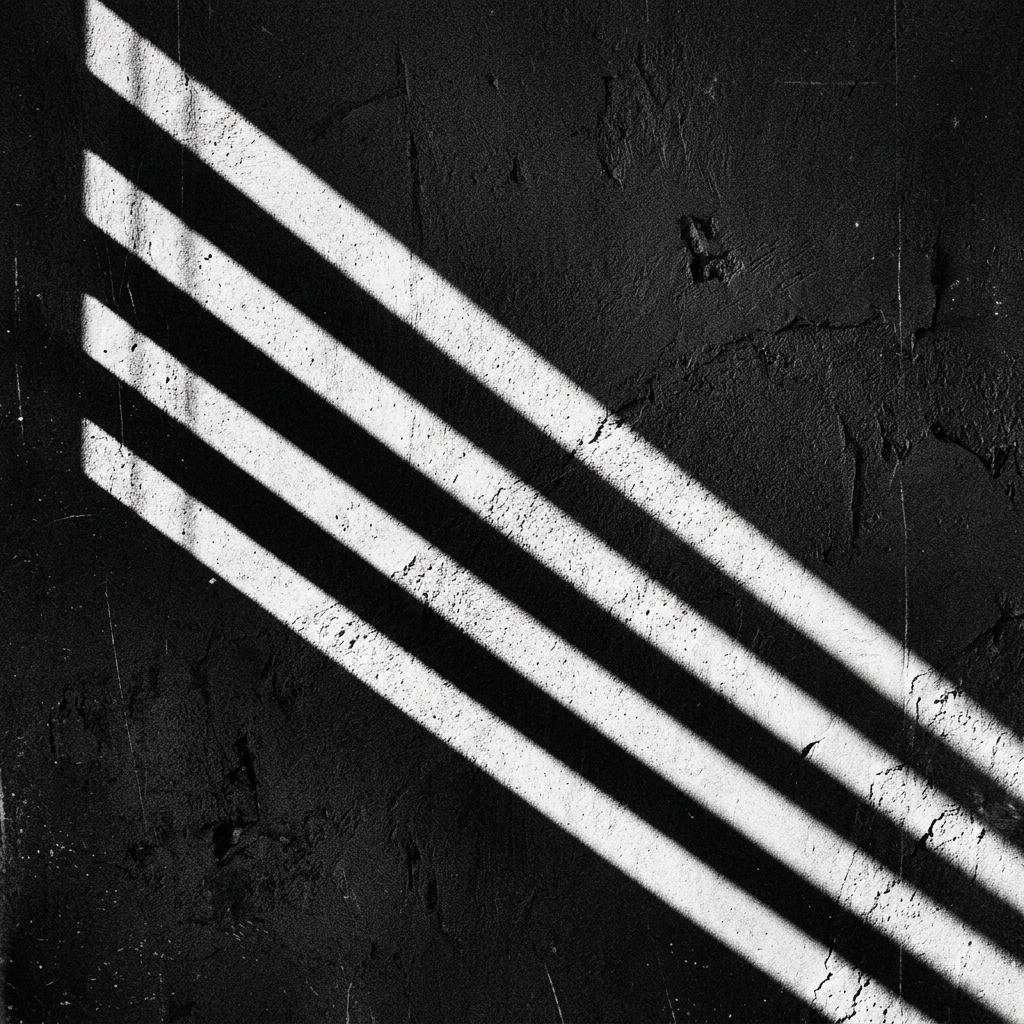
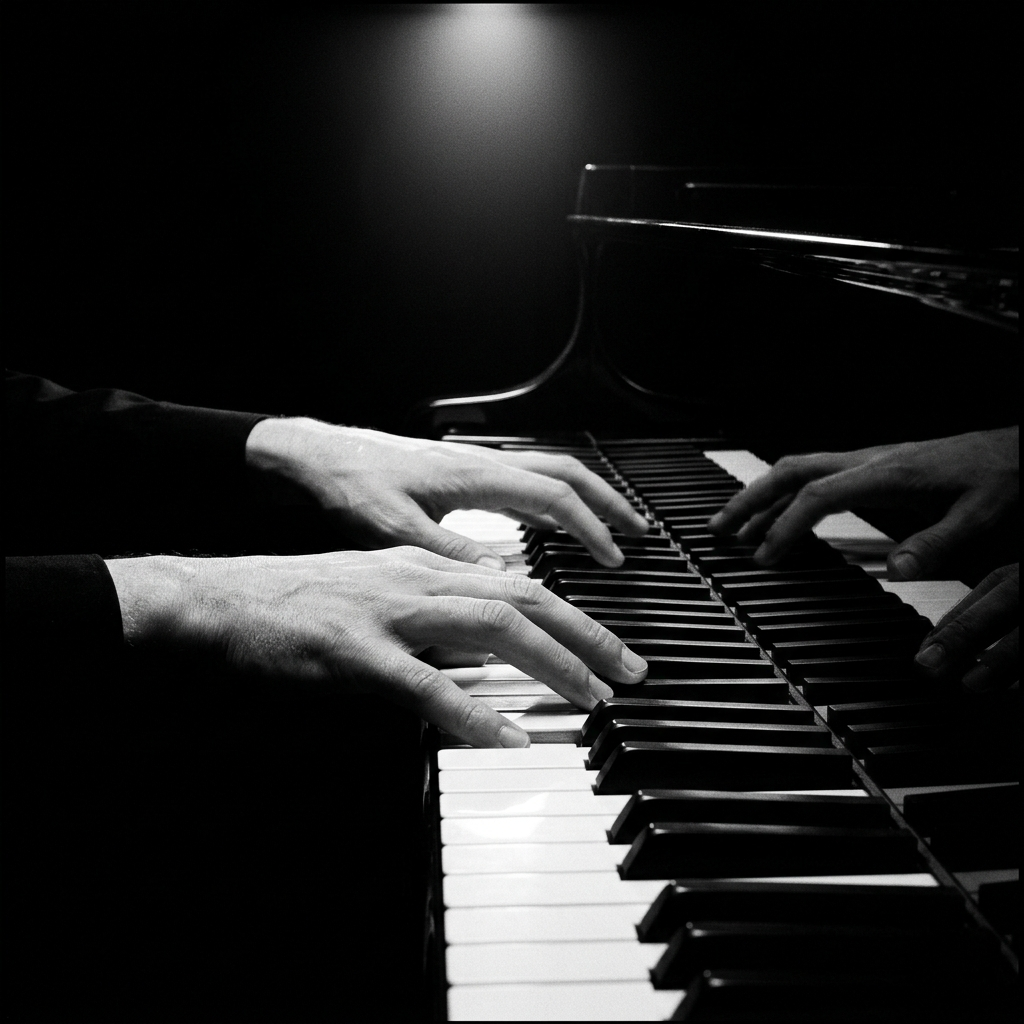
Style Tony Ann - Refonte Visuelle Haute Performance Monochrome

diff --git a/style.css b/style.css
@@ -1,19 +1,19 @@
 :root {
-    --bg-color: #0c0c0d;
-    --text-color: #f3f3f3;
-    --accent-color: #d4b295; /* Laiton / Bronze vintage de bureau de détective */
-    --overlay-color: rgba(10, 10, 10, 0.65);
-    --glass-bg: rgba(20, 20, 20, 0.65);
+    --bg-color: #000000;
+    --text-color: #ffffff;
+    --accent-color: #ffffff; /* Blanc pur pour un contraste extrême */
+    --overlay-color: rgba(0, 0, 0, 0.35);
+    --glass-bg: rgba(12, 12, 12, 0.75);
     --glass-border: rgba(255, 255, 255, 0.08);
 }
 
 [data-theme="light"] {
-    --bg-color: #eae6df; /* Couleur papier journal vintage / dossier d'enquête */
-    --text-color: #1a1a1a;
-    --accent-color: #5c4a3c; /* Bronze vieilli et sombre */
-    --overlay-color: rgba(234, 230, 223, 0.55);
-    --glass-bg: rgba(255, 255, 255, 0.6);
-    --glass-border: rgba(0, 0, 0, 0.12);
+    --bg-color: #ffffff;
+    --text-color: #000000;
+    --accent-color: #000000;
+    --overlay-color: rgba(255, 255, 255, 0.35);
+    --glass-bg: rgba(245, 245, 247, 0.75);
+    --glass-border: rgba(0, 0, 0, 0.08);
 }
 
 * {